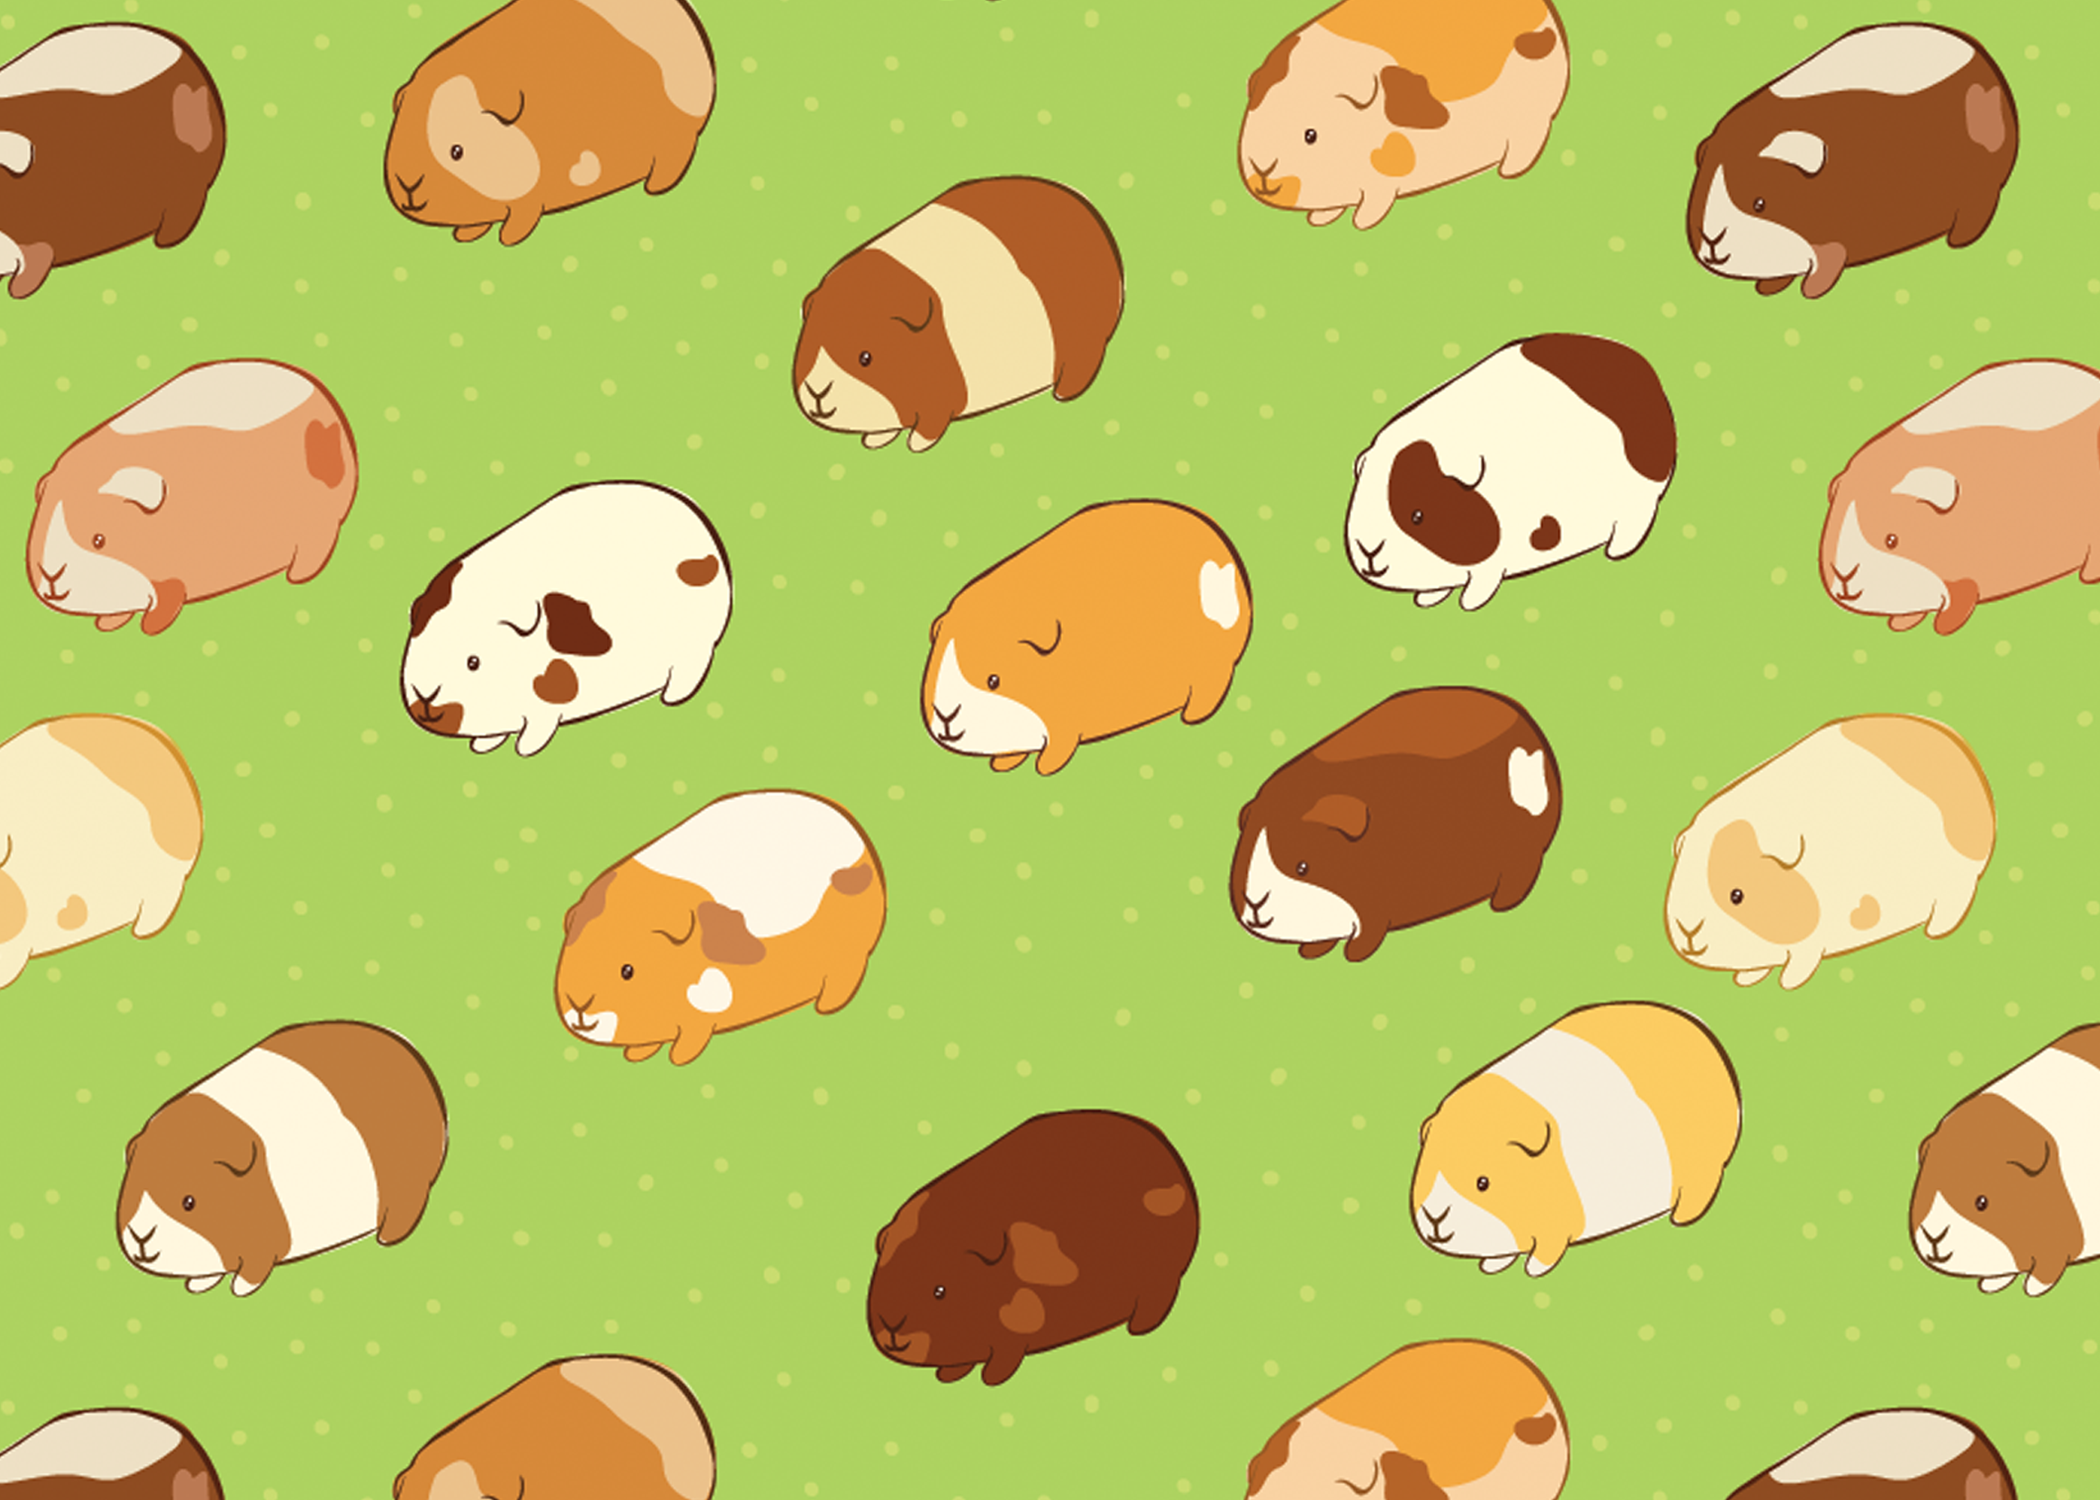
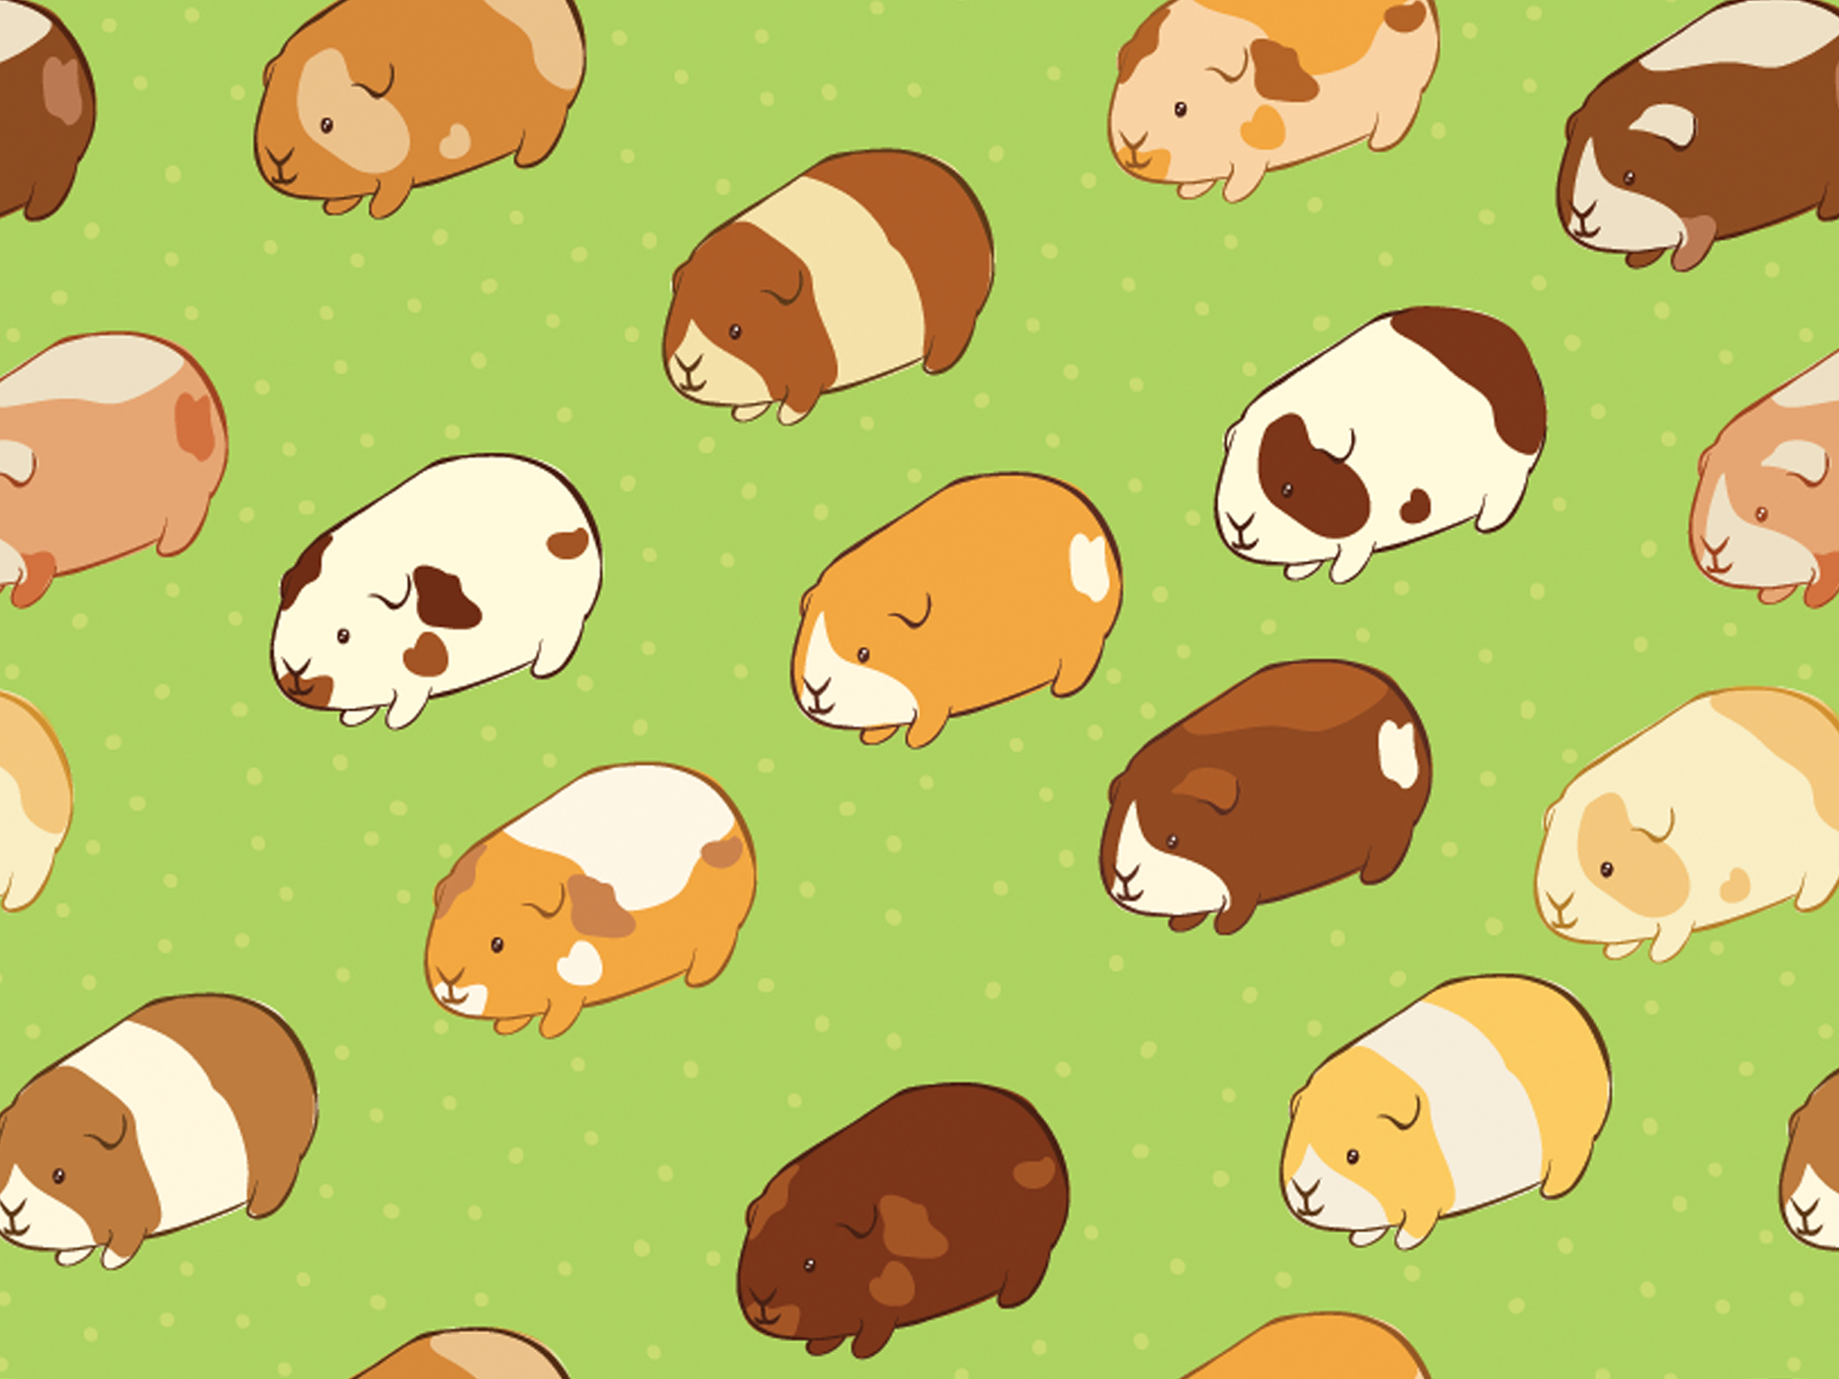
bg resize

diff --git a/tailwind.config.js b/tailwind.config.js
@@ -5,7 +5,7 @@ module.exports = {
     extend: {
       fontFamily: {
         'bubblegum': ["'Bubblegum Sans'"]
-      }
+      },
     },
   },
   variants: {
